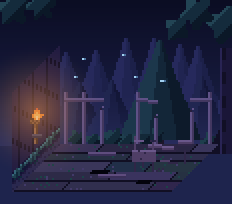
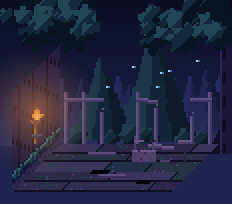
Balcony forest: oak-like canopies at top corners, firs with perspective (depth-scaled size/height/fade) and irregular shapes
Claude-Session: https://claude.ai/code/session_01FPZSaKiVNU2zED737yZX4w

diff --git a/tools/render_balcony_forest.py b/tools/render_balcony_forest.py
@@ -6,7 +6,7 @@ import os, random, sys
 from PIL import Image
 sys.path.insert(0, os.path.dirname(os.path.abspath(__file__)))
 import render_maps as R
-from forest_draw import leafy, trunk as tdraw, fir
+from forest_draw import leafy, trunk as tdraw, fir, canopy
 
 SK = SS = .5
 W, D, PAD, RAIL, SKY = 80, 48, 6, 26, 40
@@ -24,22 +24,28 @@ def main():
     for y in range(CH):
         t = min(1, max(0, y / (by + 1)))
         for x in range(CW): put(x, y, (int(12 + 20 * t), int(14 + 24 * t), int(34 + 40 * t)))
-    xl, xr = int(X0 + SK * D) + 6, CW - 4
-    for cx in range(xl - 4, xr + 6, 14):                                           # 먼 전나무(아주 흐림, 크게)
-        fir(put, cx + rng.randrange(-3, 4), int(by) - 4, rng.randrange(38, 50), 28, (30, 34, 70), (34, 38, 78), (40, 44, 88))
-    for cx in range(xl + 2, xr + 4, 20):                                       # 중간 전나무(조금 진함)
-        fir(put, cx + rng.randrange(-3, 4), int(by) - 1, rng.randrange(30, 40), 26, (20, 24, 52), (26, 30, 62), (34, 40, 76), (20, 18, 36))
+    xl, xr = int(X0 + SK * D) + 4, CW - 4
+    def scatter(n, hmin, hmax, wr, base_lo, base_hi, cols, trunkc=None, margin=6):
+        """원근법: 멀수록(base 가 높을수록) 작고 흐리며, 위치·높이·너비·단 수가 제각각이다."""
+        xs = sorted(rng.randrange(xl - margin, xr + margin) for _ in range(n))
+        for cx in xs:
+            base = rng.randrange(base_lo, base_hi + 1); depth = (by - base) / max(1, by - base_lo)     # 1=가장 멀다, 0=가까움
+            h = int(rng.randrange(hmin, hmax + 1) * (1 - .35 * depth)); w = int(h * rng.uniform(.5, .75))
+            fir(put, cx, base, h, w, *cols, trunkc, rng=rng, n=rng.choice((4, 5, 6)))
+    scatter(9, 22, 34, .7, int(by) - 18, int(by) - 9, ((30, 34, 70), (34, 38, 78), (40, 44, 88)))          # 먼 전나무: 작고 흐리며 높은 곳에
+    scatter(6, 30, 42, .7, int(by) - 10, int(by) - 3, ((20, 24, 52), (26, 30, 62), (34, 40, 76)), (20, 18, 36))   # 중간
     for yy in range(int(by) - 30, int(by) + 1):                            # 안개띠: 지평선 쪽이 밝아져 뒤쪽 나무가 묻힘
         for x in range(CW):
             r_, g_, b_, a_ = px[x, yy]; k = ((yy - (by - 30)) / 30) ** 1.5 * .5; px[x, yy] = (int(r_ + (52 - r_) * k), int(g_ + (58 - g_) * k), int(b_ + (104 - b_) * k), 255)
-    fir(put, CW - 36, int(by) + 2, 54, 40, (14, 28, 40), (20, 40, 54), (30, 58, 72), (30, 24, 40))     # 오른쪽 큰 전나무(앞)
+    fir(put, CW - 40, int(by) + 3, 60, 40, (14, 28, 40), (20, 40, 54), (30, 58, 72), (30, 24, 40), rng=rng, n=6)     # 앞쪽 큰 전나무(가장 크고 진함)
+    fir(put, int(X0 + SK * D) + 20, int(by) + 1, 44, 30, (14, 28, 40), (20, 40, 54), (30, 58, 72), (30, 24, 40), rng=rng, n=5)
     for _ in range(12):                                                    # 덤불(울타리 뒤)
         cx = rng.randrange(int(X0 + SK * D), CW); cy = int(by) - rng.randrange(1, 7)
         leafy(lambda x, y, c: put(x, y, c) if y < by else None, cx, cy, rng.randrange(4, 7), rng, (12, 26, 38), (20, 44, 54), (32, 66, 74))
     for cx in (CW - 6,):                                                   # 오른쪽 끝 활엽수 둥치
         tdraw(put, cx, 8, 24, int(by) + 4, (28, 24, 54), (44, 38, 80), (18, 16, 36), rng, root=12)
-    for cx, cy, r in ((CW - 4, 12, 10), (CW - 18, 6, 9), (CW - 28, 14, 7), (6, 4, 9), (20, 2, 8)):          # 위쪽 큰 잎: 양끝에만(가운데는 열려 안개가 보임)
-        leafy(put, cx, cy, r, rng, (12, 26, 38), (22, 46, 58), (36, 72, 80))
+    canopy(put, 26, 8, 46, 22, rng, (10, 22, 34), (20, 44, 56), (36, 74, 82))                        # 위 양옆 수관(참고 이미지의 참나무): 가운데는 열려 안개가 보인다
+    canopy(put, CW - 22, 10, 44, 24, rng, (10, 22, 34), (20, 44, 56), (36, 74, 82), flip=True)
     for _ in range(6):                                                     # 반딧불: 청록빛
         sx = rng.randrange(int(X0 + SK * D) + 6, CW - 16); sy = rng.randrange(24, int(top_rail) - 2)
         put(sx, sy, (170, 220, 230)); put(sx + 1, sy, (80, 120, 150))

diff --git a/tools/forest_draw.py b/tools/forest_draw.py
@@ -25,16 +25,31 @@ def trunk(put, x0, w, y0, y1, bark, hi, shade, rng, root=0, wrap=None):
             else: c = bark
             xx = x0 + k; put(xx % wrap if wrap else xx, y, c)
 
-def fir(put, cx, base_y, h, w, dark, mid, light, trunk_c=None, rng=None):
-    """삼각형 침엽수(전나무): 5단 가지층이 계단식으로 넓어지는 삼각형. 단이 바뀔 때마다 가장자리가 안으로 들어가 톱니 모양이 된다.
-    왼쪽 면 밝게, 가운데 mid, 오른쪽 어둡게."""
-    n = 5; top = base_y - h; tr = trunk_c or dark
+def fir(put, cx, base_y, h, w, dark, mid, light, trunk_c=None, rng=None, n=5):
+    """삼각형 침엽수(전나무): n단 가지층이 계단식으로 넓어지는 삼각형. 단마다 가장자리가 들어가 톱니 모양. 왼쪽 면 밝게, 오른쪽 어둡게.
+    rng 가 있으면 단마다 좌우로 1칸 안팎 어긋나 모양이 제각각이 된다."""
+    top = base_y - h; tr = trunk_c or dark
     for y in range(int(base_y - h * .1), int(base_y) + 1):
         for x in range(cx - 1, cx + 2): put(x, y, tr)
-    body = h * .92
+    body = h * .92; off = [0] * (n + 1)
+    if rng:
+        for k in range(1, n + 1): off[k] = off[k - 1] + rng.choice((-1, 0, 0, 1)) * (1 if w > 14 else 0)
     for y in range(int(top), int(top + body) + 1):
         u = (y - top) / body * n; tier = min(n - 1, int(u)); f = u - tier
-        half = (w / 2) * (tier + .22 + .78 * f) / n
-        for x in range(int(cx - half), int(cx + half) + 1):
-            d = (x - cx) / max(1.0, half)
+        half = (w / 2) * (tier + .22 + .78 * f) / n; c0 = cx + off[tier]
+        for x in range(int(c0 - half), int(c0 + half) + 1):
+            d = (x - c0) / max(1.0, half)
             put(x, y, light if d < -.3 else dark if d > .4 else mid)
+
+def canopy(put, cx, cy, w, h, rng, dark, mid, light, flip=False):
+    """큰 활엽수 수관(참고 이미지의 참나무): 둥근 잎 덩어리를 겹쳐 쌓은 큰 덩어리. 뒤쪽 어두운 덩어리 → 가운데 → 위쪽 밝은 덩어리 순으로 그려 덩어리마다 윤곽이 보이고,
+    아래 가장자리는 물결 모양. flip 은 좌우 반대(빛이 오른쪽 위에서 옴)."""
+    def blobs(n, rmin, rmax, yscale, tone):
+        for _ in range(n):
+            bx = cx + rng.randrange(-w // 2, w // 2 + 1); by = cy + int(rng.randrange(-h // 2, h // 2 + 1) * yscale)
+            r = rng.randrange(rmin, rmax + 1)
+            d, m, l = tone
+            leafy(put, bx, by, r, rng, d, m, l if not flip else l)
+    blobs(10, 6, 10, 1.0, (dark, dark, mid))                        # 뒤: 어두운 큰 덩어리
+    blobs(12, 5, 8, .9, (dark, mid, light))                         # 가운데
+    blobs(8, 4, 6, .6, (mid, light, light))                         # 위쪽 밝은 작은 덩어리(윗면이 달빛을 받음)
